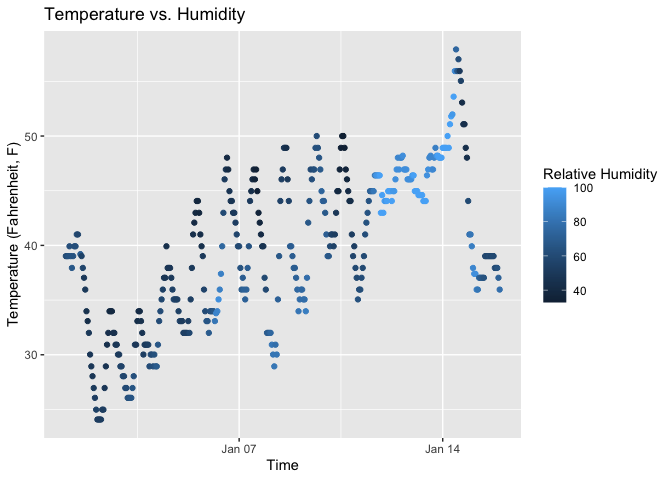
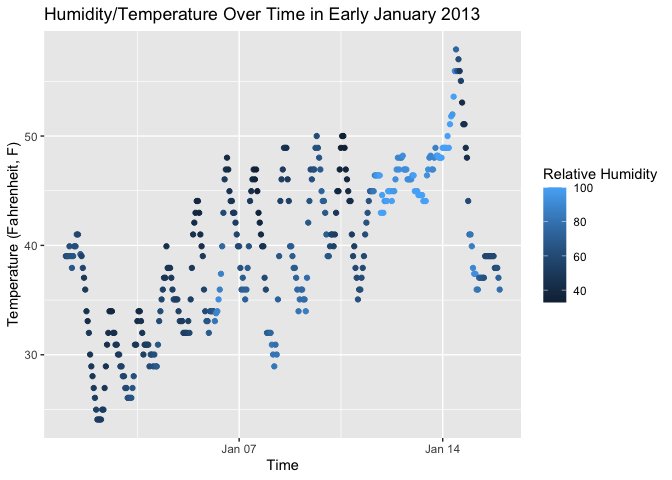
Completed Problem 1 - Added Description of Scatterplot.

Changed region(s): [[0.0625, 0.0, 0.7188, 0.0625]]

diff --git a/P8105_HW1_jao2195.md b/P8105_HW1_jao2195.md
@@ -21,14 +21,13 @@ early_january_weather dataset:
 ``` r
 #1. Installing Packages and Libraries 
 
-#
-#Loading Libraries
+# Packages already installed, previously. 
+# Loading Libraries
 library(moderndive)
 library(tidyverse)
 library(ggplot2)
 
 #2. Loading early_january_weather dataset from moderndive package.
-
 data(early_january_weather)
 
 #3. Looking at help function to learn more about the variables in the dataset. 
@@ -47,7 +46,7 @@ temperature
 
 ################################################################################ 
 
-# My Short Description of Early January Weather Dataset
+# My Short Description of Early January Weather Dataset (1.2)
 
 The Early January Weather data (early_january_weather) is a dataset that
 contains hourly meterological data for Laguardia (LGA), John F. Kennedy
@@ -69,26 +68,33 @@ humid variable (adding color = … inside of aes in your ggplot code
 should help). Describe patterns that are apparent in this plot. Export
 your scatterplot to your project directory using ggsave.
 
-################################################################################ 
-
-# My Short Description of the Scatterplot
-
 ``` r
-#Creating Scatterplot, storing in myplot object.
+#1. Creating Scatterplot, storing in myplot object.
 myplot <-
   ggplot(early_january_weather) + 
   geom_point(aes(x= time_hour, y = temp, col= humid)) + 
-  labs(x="Time", y="Temperature (Fahrenheit, F)", col="Relative Humidity", title="Temperature vs. Humidity ") 
+  labs(x="Time", y="Temperature (Fahrenheit, F)", col="Relative Humidity", title="Humidity/Temperature Over Time in Early January 2013 ") 
 
-#Printing myplot object to rendered document.
+#2. Printing myplot object to rendered document.
 myplot
 ```
 
 ![](P8105_HW1_jao2195_files/figure-gfm/unnamed-chunk-2-1.png)<!-- -->
 
 ``` r
-#Saving .png file version to plot to working directory (wd).
+#3. Saving .png file version to plot to working directory (wd).
 ggsave("Temp_Humid_Scatterplot_Problem 1.png") 
 ```
 
-    ## Saving 7 x 5 in image
+################################################################################ 
+
+# My Short Description of the Scatterplot (1.3)
+
+During early January 2013, temperature ranged from 24, 58 degress
+Fahrenheit. Temperature fluctuated multiple times but had general upward
+tread (increase in temperature) with time. In addition, humidity also
+increased with time, with humidity being the highest between January
+11 - January 15th. In general, as temperature increased, relative
+humidity increased.
+
+################################################################################ 
